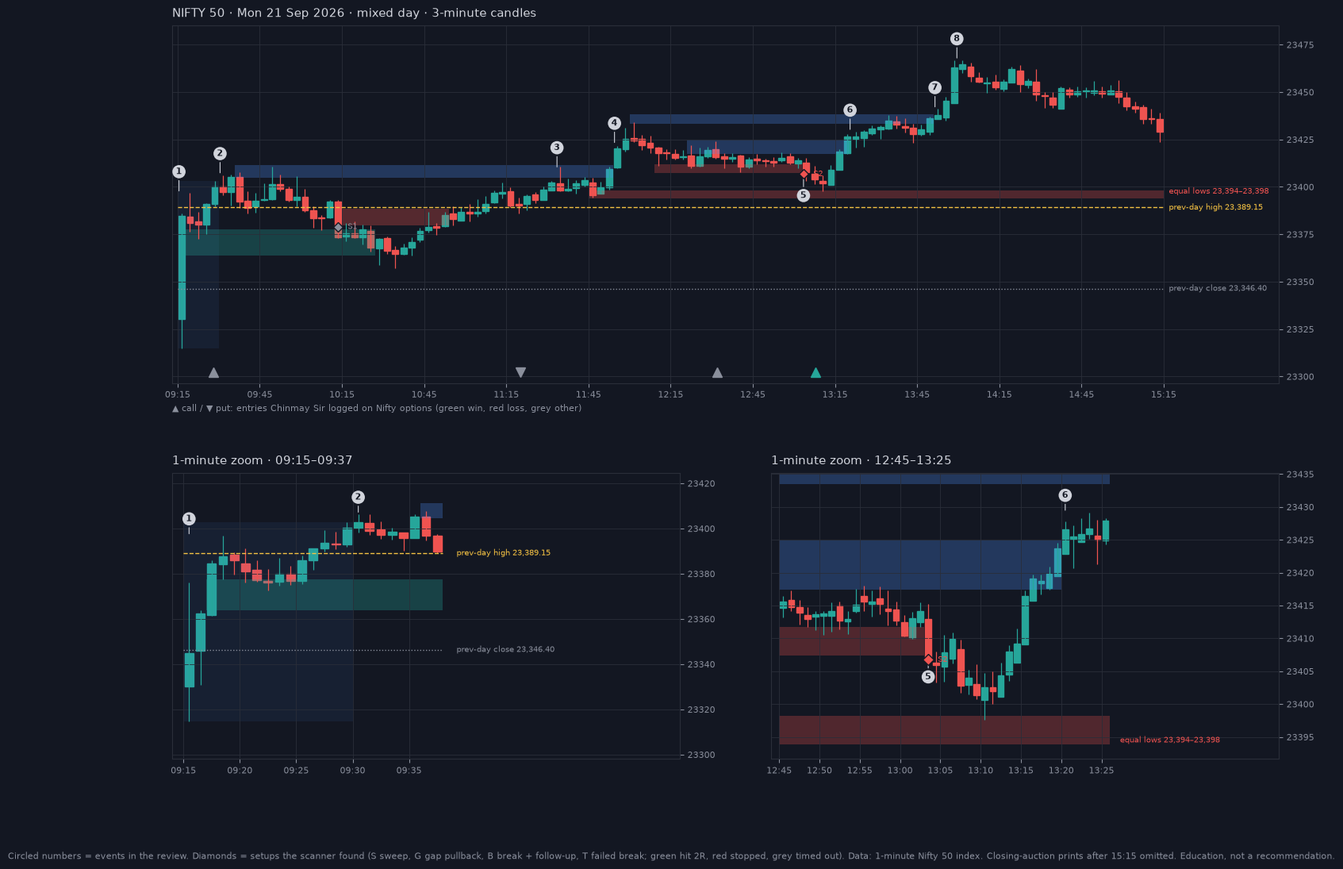
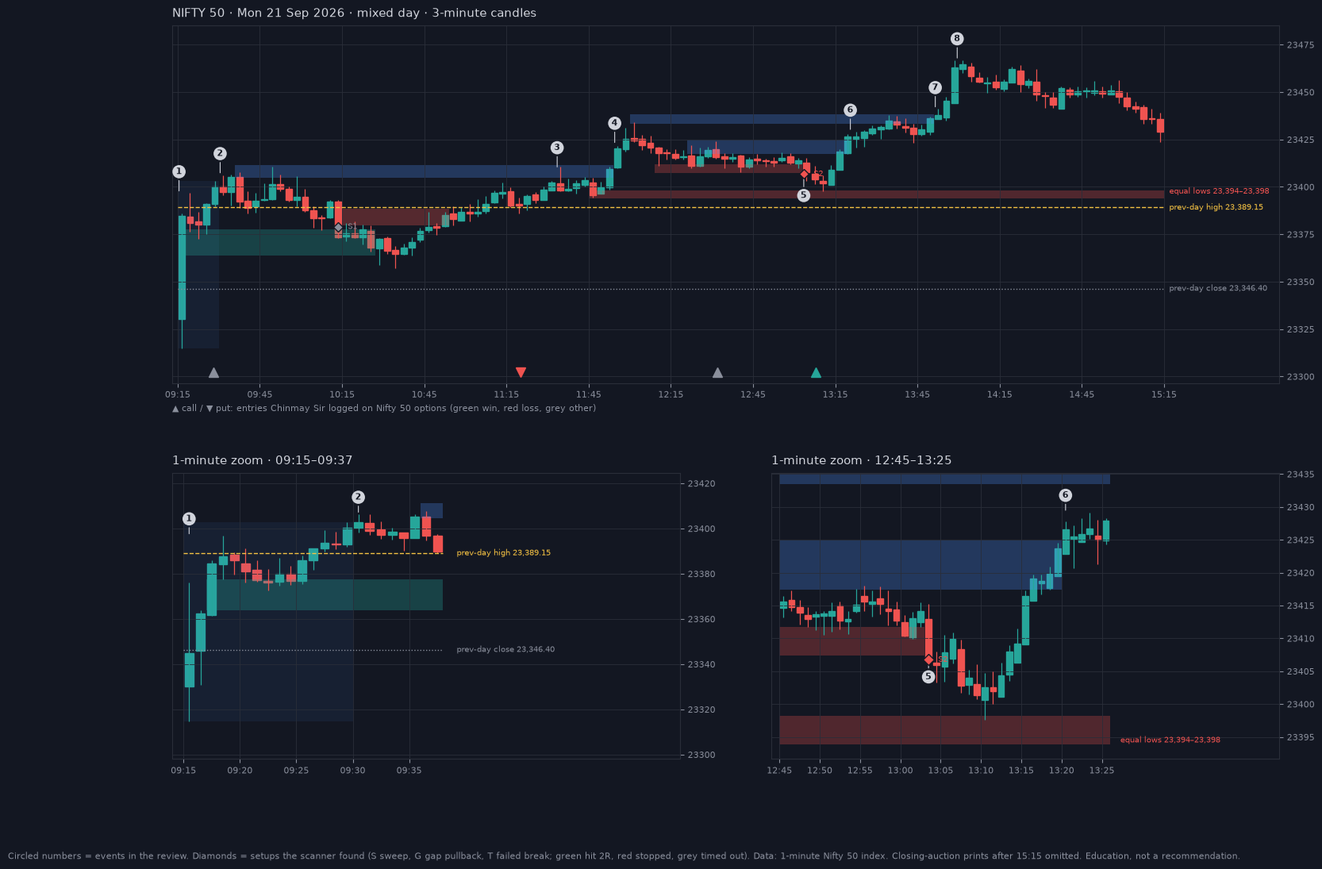
Update Study Desk (2026-09-21)

diff --git a/knowledge/streams/2026-09-21.md b/knowledge/streams/2026-09-21.md
@@ -3,7 +3,7 @@
 Stream: [DrmIRaTPU-A](https://www.youtube.com/watch?v=DrmIRaTPU-A) (09:03–15:12 IST, host: Chinmay Sir / Trading Cafe India)
 Instruments: NIFTY 23250 CE and 23500 PE through the morning (PE rolled to 23600 PE mid-afternoon), plus a BANKNIFTY 56500 CE from late morning. No Sensex trade taken today.
 
-> **Frame grab failed for this entire session.** `python3 tckb.py frames` repeatedly errored (ffmpeg couldn't seek the googlevideo URL — it still carried `source=yt_live_broadcast&live=1&noclen=1`, i.e. YouTube had not yet finished turning this same-day, 6h09m stream into a seekable on-demand file at the time this was processed). Every trade below rests on the transcript alone (`verified=said`); none is frame-verified. Re-run frames later and re-check before treating any number here as final — see ISSUES.
+> **Frames:** the first pass (19:00) had none because YouTube had not finished converting the 6h09m stream into a seekable VOD. They were grabbed at ~21:10 and trades 1–3 are now `verified=frame`; trade 4's 531 touch remains `said`. See each trade's frame check and ISSUES.
 
 ## Pre-market (09:05–09:15)
 - **Crude cooled off** (~2.5% pullback overnight) after Iran signalled willingness to end hostilities on its own terms — read as mildly positive for India, since crude is "the biggest single impact" on the market right now. [▶ 09:09](https://www.youtube.com/watch?v=DrmIRaTPU-A&t=360s)
@@ -16,7 +16,7 @@ Instruments: NIFTY 23250 CE and 23500 PE through the morning (PE rolled to 23600
 | # | IST | Instrument | Setup | Entry → SL → Target | Result |
 |---|-----|-----------|-------|---------------------|--------|
 | 1 | 09:28 | NIFTY 23250 CE | Follow-up-candle breakout above 173 | 173 → 167 → 183 / 202 | ➖ scratch, told to exit breakeven at 09:52 |
-| 2 | 11:20 | NIFTY 23500 PE | Liquidity-sweep reversal below day low 129 | ~136 → ~130 → 158 / 174 | ⚠ no exit ever stated — the "17–18 points" at 11:36 belongs to the 23250 **CE** Telegram call (158→175), not this put. Nifty *rose* 23,390→23,430 between 11:20 and 12:00, so the put was going against him. No points logged |
+| 2 | 11:20 | NIFTY 23500 PE | Liquidity-sweep reversal below day low 129 | ~136 → ~130 → 158 / 174 | ❌ **loss ~−6 (frame)** — no exit stated, but the 11:33 frame shows the PE at 127.4, through the 130.4 stop line, while Nifty rose 23,391→23,405. The "17–18 points" at 11:36 belongs to the 23250 **CE** Telegram call, not this put |
 | 3 | 13:08 | NIFTY 23250 CE | Fresh pullback box, same strike | ~171 → 165 → 183 / 202 | ✅ highest **confirmed** target 212 at 14:02 (+41 pts) |
 | 4 | 13:18 | BANKNIFTY 56500 CE | Hard-trigger breakout (named 11:29, confirmed above 470) | 470 → 438→446 → 531 / 589 | ✅ 531 confirmed touched 13:59, trailed further |
 
@@ -27,22 +27,25 @@ Instruments: NIFTY 23250 CE and 23500 PE through the morning (PE rolled to 23600
 2. He explicitly refused the first breakout candle — "ब्रेकआउट अक्सर फंसा देते हैं" — and waited for the follow-up candle's high (173) to break before entering. [▶ 09:23–09:28](https://www.youtube.com/watch?v=DrmIRaTPU-A&t=1200s) · entry quote: "तो 173 के ऊपर हम एंट्री करेंगे" [▶ 09:28](https://www.youtube.com/watch?v=DrmIRaTPU-A&t=1500s)
 3. Separately, the earlier ~150–157 pullback cohort (who got in before the breakout leg) had already banked roughly 14–15 points by 09:49 — a smaller, distinct win not logged as its own row since no clean entry/exit pair was stated for it. [▶ 09:49](https://www.youtube.com/watch?v=DrmIRaTPU-A&t=2760s)
 4. The breakout leg (this row) never got continuation. Stop was tightened 167→160→148 over the next twenty minutes, and by 09:52 he told anyone without conviction to flatten at breakeven rather than keep waiting: "ब्रेक इवन पे निकल जाओ भाई। कन्विक्शन नहीं आ रहा है ... ब्रेकआउट के आगे कंटीन्यूएशन नहीं आ रहा है ... 184 के ऊपर देख लेना तब आपको मिल जाएगा।" [▶ 09:52](https://www.youtube.com/watch?v=DrmIRaTPU-A&t=2940s)
+5. **Frame check:** at 09:28 the CE printed 172.50 against the 172.72 entry line `data/frames/DrmIRaTPU-A/002500.jpg`; at 09:53 it was 171.90 with the box SL trailed to 161.16 `data/frames/DrmIRaTPU-A/005000.jpg` — flat, so scratch stands.
 
-### Trade 2 — NIFTY 23500 PE, liquidity-sweep reversal, ~+18 confirmed (11:20)
+### Trade 2 — NIFTY 23500 PE, liquidity-sweep reversal, loss ~−6 (11:20)
 1. He spent from 10:03 marking a base and an imbalance/FVG zone under the PE, deliberately not entering — "एक अच्छी ग्रीन कैंडल इस ज़ोन में बनने दो, उसके बाद आप काम कर लेना." [▶ 10:03](https://www.youtube.com/watch?v=DrmIRaTPU-A&t=3600s) · [▶ 10:47 FVG explained](https://www.youtube.com/watch?v=DrmIRaTPU-A&t=6420s)
 2. From 11:13 he explicitly wanted the day low (129) swept first — "129 के नीचे जाए, एक डिप दे दे और अपने लिए एक प्यारा मॉर्निंग स्टार कैंडल बना दे" — before treating any bounce as tradeable. [▶ 11:13–11:14](https://www.youtube.com/watch?v=DrmIRaTPU-A&t=7800s) · [▶ 11:32 "let it sweep first"](https://www.youtube.com/watch?v=DrmIRaTPU-A&t=8940s)
 3. Pullback entry confirmed at ~136 with a 6–7 point risk. [▶ 11:20](https://www.youtube.com/watch?v=DrmIRaTPU-A&t=8220s)
 4. By 11:35 he said the sweep-then-reverse read was working ("एक्सक्टली क्योंकि इसने लिक्विडिटी ले ली तो फिर यह घूमना स्टार्ट कर देगा"). **The ~17–18 points he quotes at 11:36 are the 23250 CE Telegram call moving 158→175/176, not this put** — he never stated an exit for the put, and Nifty rallied after 11:20, so it was going the wrong way. [▶ 11:35](https://www.youtube.com/watch?v=DrmIRaTPU-A&t=9120s) · [▶ 11:37](https://www.youtube.com/watch?v=DrmIRaTPU-A&t=9240s)
-5. No further exit was stated on stream — by 11:41 he said he'd tried the PE with small stops but wasn't going to keep re-entering, and attention shifted to BankNifty. Logged conservatively at the confirmed +17–18 pt mark rather than the untouched 174 distribution zone. [▶ 11:41](https://www.youtube.com/watch?v=DrmIRaTPU-A&t=9480s)
+5. No exit was stated on stream — by 11:41 he said he'd tried the PE with small stops but wasn't going to keep re-entering, and attention shifted to BankNifty. **Frame check (evening, once the VOD was seekable):** the 11:20 frame shows the position box (SL line 130.4, target 158–159, PE ~139.5) `data/frames/DrmIRaTPU-A/021700.jpg`, and by 11:33 the PE traded at 127.4, well through the stop `data/frames/DrmIRaTPU-A/023000.jpg`. Logged as a loss at the box's 130 stop (~−6 from ~136), the size of the stop rather than a fill he announced. [▶ 11:41](https://www.youtube.com/watch?v=DrmIRaTPU-A&t=9480s)
 
-### Trade 3 — NIFTY 23250 CE, fresh pullback box, +57 confirmed (13:08)
+### Trade 3 — NIFTY 23250 CE, fresh pullback box, +41 confirmed (13:08)
 1. A new position box (not the same one as trade 1) touched and printed a pin bar at 13:05: "अपना जो बॉक्स है इसने टच कर लिया। पिन बार बना दिया है।" [▶ 13:05](https://www.youtube.com/watch?v=DrmIRaTPU-A&t=14520s)
 2. At 13:08 he named the exact numbers: SL 165, entry 171–172, "छ से सात पॉइंट की रिस्क है यहां पे" — 6–7 point risk. [▶ 13:08](https://www.youtube.com/watch?v=DrmIRaTPU-A&t=14700s)
-3. He was explicit this was a **pullback**, not a reversal: "यह रिवर्सल नहीं था जो एक सिंगल कैंडल पे पकड़ा। इसको पुलबैक बोलते हैं ... रिवर्सल एक सिंगल कैंडल पे पकड़ने मत जाना।" — the justification for logging it as `pullback-first-green-candle` rather than a base reversal. [▶ 13:26](https://www.youtube.com/watch?v=DrmIRaTPU-A&t=15180s)
+3. He was explicit this was a **pullback**, not a reversal: "यह रिवर्सल नहीं था जो एक सिंगल कैंडल पे पकड़ा। इसको पुलबैक बोलते हैं ... रिवर्सल एक सिंगल कैंडल पे पकड़ने मत जाना।" — the justification for logging it as `pullback-first-green-candle` rather than a base reversal. [▶ 13:26](https://www.youtube.com/watch?v=DrmIRaTPU-A&t=15780s)
 4. Targets were taken in sequence: 182/183 first, then the prior rejection zone 187–189, then a confirmed "डॉट टारगेट ले लिया 202 का" at 13:56, and a 228 zone was named next but never confirmed taken. [▶ 13:56](https://www.youtube.com/watch?v=DrmIRaTPU-A&t=17580s) · [▶ 13:57](https://www.youtube.com/watch?v=DrmIRaTPU-A&t=17640s)
 5. By 14:02 he said "इसने सब ले लिया भाई। इतने सारे टारगेट ले लिए। **212 का ले लिया**" — 212 is the highest number he actually names as taken, so the trade is logged there (+41 pts). The "158 to 230" in his 15:06 recap belongs to the **Telegram** call on the same strike, which is self-reported and earns no points. [▶ 14:02](https://www.youtube.com/watch?v=DrmIRaTPU-A&t=17940s) · [▶ 13:58 "trade of the week"](https://www.youtube.com/watch?v=DrmIRaTPU-A&t=17880s)
+6. **Frame check:** the 13:18 frame shows the box — entry 172.27–172.72, SL 165.40, reward:risk 4.33, target 202 `data/frames/DrmIRaTPU-A/041500.jpg`; at 13:59 the CE traded 218.3 with the box top extended to 228.6 `data/frames/DrmIRaTPU-A/045600.jpg`, and at 14:03 it printed 223.7 with a ~230 wick `data/frames/DrmIRaTPU-A/050000.jpg`. The 212 target was passed comfortably; the row stays at the conservative 212 because no exit fill is shown.
 
-### Trade 4 — BANKNIFTY 56500 CE, hard-trigger breakout, +61 confirmed (13:18)
+### Trade 4 — BANKNIFTY 56500 CE, hard-trigger breakout, +61 confirmed (entry ~12:46–13:18)
+- **Frame check on timing:** the 12:46 frame of the BANKNIFTY 29 SEP 56500 CALL 5-min chart already carries the long box (price 469.5, SL line 438.8, target 531.3) `data/frames/DrmIRaTPU-A/034330.jpg`, so the 470 trigger was live from about 12:46; 13:18 is when he asked viewers who had been filled. The 531 touch itself rests on his 13:59 words ("देखो टच हो गया"), not a frame.
 1. First flagged well in advance: "बैंक निफ्टी में आपको मोमेंटम दिख रहा है ... 56500 के ऊपर ही देखना, उससे पहले मत देखना." [▶ 11:29](https://www.youtube.com/watch?v=DrmIRaTPU-A&t=8760s)
 2. Formalised at 11:59 with numbers: SL 438, primary target 531, waiting for a confirmed 5-min close above 470 rather than the raw poke. [▶ 11:59](https://www.youtube.com/watch?v=DrmIRaTPU-A&t=10560s)
 3. Confirmed live at 13:18: "बैंक निफ्टी यस भाई बैंक निफ्टी बैंग ऑन है ... स्टॉप लॉस 446 का रखो ... 470 के ऊपर करो, 531 को एम करके चलो." [▶ 13:18](https://www.youtube.com/watch?v=DrmIRaTPU-A&t=15300s)
@@ -82,8 +85,8 @@ By this window he had turned decisively one-sided: bullish on the CE ("अभी
 - Commercial: Lemonn demat referral + free VIP Telegram, free "Option Scalping Pro" course, CoinSwitch for gold/crypto/BTC/ETH (a separate crypto stream was teased for "day after tomorrow"). His P&L claims (verified PnL screenshot mentioned, not shown on this stream) are self-reported.
 
 ## ISSUES (carried up from this stream's processing)
-- **No frames could be grabbed** for this entire session — `tckb.py frames` failed on every offset tried (ffmpeg error 234/"noclen=1", `source=yt_live_broadcast&live=1` still in the URL), most likely because YouTube had not finished converting this same-day 6h09m stream into a seekable on-demand file yet. Every row here is `verified=said`, not `verified=frame`. Re-grab frames and re-check trades 1–4 once the VOD is fully processed.
+- **Frames (resolved the same evening):** at 19:00 `tckb.py frames` failed because YouTube had not finished converting the 6h09m stream into a seekable VOD; by 21:10 it worked. Trades 1, 2 and 3 are now `verified=frame` (trade 2 turned from unclear into a ~−6 loss); trade 4's box is on a frame but its 531 touch is still `said`.
 - The "158–162" band referenced repeatedly through the day (Telegram call, reaching "230" by his 15:05 recap) overlaps trades 1 and 3 (same 23250 CE). Whether this is one continuously-held position (trades 1 and 3 being excerpts of it) or a genuinely separate Telegram-only position tracked in parallel could not be resolved from the transcript alone.
-- Trade 2 (PE) has no stated exit at all, and the points once attributed to it belong to the CE Telegram call. Logged as `unclear` with no points until a frame check settles it.
+- Trade 2 (PE) had no stated exit and the points once attributed to it belong to the CE Telegram call; the frame check (see trade 2) settled it as a stop-out.
 - Trade 4 (BankNifty CE)'s final exit was never explicitly booked either; logged at the confirmed 531 touch, not the later-named 589/635 zones or viewers' self-reported 56–100 pt claims (chat, not his own stated numbers).
 - This is also the first stream in the backlog where he ran a full BankNifty scalp setup — flagged in RULES below as a possible contradiction of the existing "avoids BankNifty for scalping" rule (`playbook.md` §3); worth a second data point before revising that rule.

diff --git a/knowledge/daily/2026-09-21-insights.md b/knowledge/daily/2026-09-21-insights.md
@@ -1,36 +1,57 @@
-# 21 Sep 2026 (Mon) — insights
+# 21 Sep 2026 (Mon) — Daily Insights
 
-**The session:** Nifty opened 23,330.20, printed the day's low **in the opening minute** at 23,314.80, swept Friday's high by 09:18, ground sideways through a dull morning, then climbed a staircase of four higher ceilings from 11:54 to a 13:59 high of **23,466.80**. Close 23,414.30, range 152 points. He blamed the thin morning on the NSE IPO's subscription closing that evening — the second day running he has pointed at it.
+## Headline
+A dead morning, then a staircase up. He passed on the thin 09:28 breakout (scratch), lost about 6 points shorting the day-low sweep with a put, then took the one pullback call that agreed with the trend (**+41**, frame-checked) and a BankNifty hard-trigger breakout (**+61**, his word). The lesson: the day's low was in at 09:15 and every counter-trend read lost; the pullback in the direction of the staircase paid.
 
-## What he traded
+## Market context
+- **Host / instruments:** Chinmay Sir, solo. Nifty 23250 CE and 23500 PE (~₹150 each), plus a BankNifty 56500 CE from late morning. No Sensex trade. [▶ 09:14](https://www.youtube.com/watch?v=DrmIRaTPU-A&t=840s)
+- **Global cues:** crude cooled about 2.5% overnight after Iran signalled it would end hostilities on its own terms; he read it as mildly positive for India. [▶ 09:09](https://www.youtube.com/watch?v=DrmIRaTPU-A&t=360s)
+- **Thin volumes, second day running:** he blamed the NSE IPO (subscription closing that evening) for parking cash, said futures volumes were the lowest since 2009 and expected real momentum only after it closed. [▶ 09:33](https://www.youtube.com/watch?v=DrmIRaTPU-A&t=1770s)
+- **Nifty levels (from the data):** open 23,330.20, low **23,314.80 at 09:15**, high **23,466.80 at 13:59**, close 23,414.30, range 152. IV ran 10–12 in the afternoon (his read: sideways market). Friday's zone he marked was 23,380–23,400 resistance, 23,280 support. [▶ 09:07](https://www.youtube.com/watch?v=DrmIRaTPU-A&t=240s)
 
-| Time | Trade | Result |
-|---|---|---|
-| 09:28 | NIFTY 23250 CE, follow-up entry above 173 | Scratch — told holders to leave at breakeven by 09:52 |
-| 11:20 | NIFTY 23500 PE, sweep of the day low 129 | **No exit ever stated**; Nifty rallied against it. No points logged |
-| 13:08 | NIFTY 23250 CE, pullback into a fresh box with a pin bar | **+41 pts** (confirmed target 212 at 14:02) |
-| 13:18 | BANKNIFTY 56500 CE, hard trigger above 470 | **+61 pts** (target 531 confirmed) |
+## Trades
+| Time (IST) | Option | Setup | Entry → SL → Target | Result | Verified? | ▶ |
+|---|---|---|---|---|---|---|
+| 09:28 | NIFTY 23250 CE | Follow-up breakout above 173 | 173 → 167 → 183 / 202 | **Scratch** — told holders to leave at breakeven by 09:52; CE 172.5 at entry, 171.9 at 09:53 | frame | [link](https://www.youtube.com/watch?v=DrmIRaTPU-A&t=1500s) |
+| 11:20 | NIFTY 23500 PE | Sweep of the day low (129), pullback entry | ~136 → ~130 → 158 / 174 | **Loss, ~−6** — no exit stated, but the PE was 127.4 at 11:33, through the 130.4 stop line, while Nifty rose | frame | [link](https://www.youtube.com/watch?v=DrmIRaTPU-A&t=8220s) |
+| 13:08 | NIFTY 23250 CE | Pullback into a fresh box, pin bar | ~171 → 165 → 183 / 202 | **Win, +41** — 212 taken per him (14:02); frames show the CE at 218–223 by 14:03. Kept at 212 | frame | [link](https://www.youtube.com/watch?v=DrmIRaTPU-A&t=14700s) |
+| live by 13:18 (box on screen 12:46) | BANKNIFTY 56500 CE | Hard trigger above 470, close-confirmed | 470 → 446 → 531 / 589 | **Win, +61** — "देखो टच हो गया" at 13:59; 589 and 635 named, never confirmed | said | [link](https://www.youtube.com/watch?v=DrmIRaTPU-A&t=15300s) |
+| 12:32 (running since morning) | NIFTY 23250 CE | Telegram-only long from 158 | 158 → ? | **Unclear** — self-reported (his 15:06 recap says "158 to 230"); no points per the Telegram rule | unverified | [link](https://www.youtube.com/watch?v=DrmIRaTPU-A&t=12540s) |
 
-Plus a Telegram-only long from 158 on the 23250 CE, running all day and self-reported — no points, per the standing rule.
+**Verification notes.** The stream wasn't seekable at 19:00, so the first pass was `said` only. By 21:10 frames worked and changed two rows: the **put** went from "unclear" to a stop-out (~−6), and the **09:28 scratch** and **13:08 win** became `frame`. The BankNifty box is on a frame at 12:46 (so the trigger was live well before 13:18, which is only when he asked who got filled), but its 531 touch rests on his words. His "158 to 230" recap belongs to the Telegram call, not the charted entry.
 
-## Three things worth keeping
+## Best moment to watch
+**13:05–13:26 — the pullback trade, and why he calls it a pullback, not a reversal.** [▶ 13:05](https://www.youtube.com/watch?v=DrmIRaTPU-A&t=14520s) → [▶ 13:26](https://www.youtube.com/watch?v=DrmIRaTPU-A&t=15780s). The box is drawn in advance, price taps it with a pin bar, he states entry 171–172, SL 165 and a 6–7 point risk out loud, then spends twenty minutes explaining why you don't catch a reversal on a single candle ("इसको पुलबैक बोलते हैं"). It is also the cleanest small-stop-versus-big-reward example of the month: reward:risk on the frame is 4.33.
 
-**1. The "avoids Bank Nifty" rule broke, and for a good reason.** The playbook has recorded since 6-Aug that he stays off BankNifty intraday because monthly-only expiry makes liquidity thin. Today he ran a full hard-trigger breakout on it — trigger named hours in advance, entry above 470, SL 446, target 531 — and it was the cleanest trade of the day. The honest revision is "not usually", not "never": on a dull Nifty day he went where the movement was.
+## What changed in the playbook
+- **Pullback (B) now 15W / 0L** (+41 today).
+- **Sweep reversal (C) gets its second loss.** He was right about the sweep of the low but the put fought the trend; stopped in about 13 minutes. New note in C.
+- **Reinforced:** wait for the stops to be actually *taken*, not just a fresh low (he sat out the put for 19 minutes at 11:13 for that).
+- **Contradicted:** "he avoids BankNifty scalps" — today he ran a full hard-trigger breakout on it and it was the cleanest trade. Rule reworded to "not usually, not never".
+- **Confirmed:** "no trade is also a trade" when conviction is missing (10:33); a recap is not evidence.
 
-**2. He waits for the stops to be *taken*, not just for a fresh low.** At 11:13 he refused to treat any bounce as tradeable until the day's low at 129 was actually swept. That's the sweep rule stated more strictly than the playbook had it — a new low is not a sweep; liquidity being taken *and rejected* is.
+## Scorecard snapshot (Chinmay's core setups)
+| Setup | Trades | W / L / other | Net pts | Change today |
+|---|---|---|---|---|
+| Follow-up breakout (A) | 31 | 21 / 6 / 4 | Nifty +330 · BankNifty +61 · Sensex +482 | +1 win (+61 BankNifty), +1 scratch |
+| Pullback, first green candle (B) | 18 | 15 / 0 / 3 | Nifty +180 · Sensex +462 | +1 win (+41) |
+| Sweep reversal (C) | 9 | 3 / 2 / 4 | Nifty +26 · Sensex +42 | +1 loss (−6) |
+| Telegram calls | 12 | 1 / 0 / 11 | Nifty +18 | +1 unclear |
+| **All his trades** | **163** | **92 / 35 / 36** | Nifty +1,121 · Sensex +2,198 · BankNifty +61 | +5 rows: 2W, 1L, 2 unclear |
 
-**3. A recap is not evidence.** His 15:06 end-of-day summary described "one trade, 158 to 230". That range belongs to the Telegram call, not the charted 13:08 entry, whose highest confirmed target was **212**. The two ran in parallel on the same strike all day. Where a recap and the chart disagree, the chart wins.
+Points are option premium per lot, before costs; Nifty, BankNifty and Sensex points aren't comparable.
 
-## What the rules saw
+## Practice question
+Look at `data/frames/DrmIRaTPU-A/040300.jpg` (13:06, two minutes before the entry). The left panel is Nifty, the middle is the 23250 CE, the right is the 23500 PE. The CE has just dropped into a purple box and printed a small candle at its top edge.
 
-Three scanner signals, net **+0.61R** — one 2R winner (the 10:17 gap pullback), one stop, one time exit.
+**What is the setup, where are the entry, SL and target, and why is this not a "reversal"?**
 
-The stopped signal is the instructive one. At **13:03** it called a sweep reversal short at 23,406.75 and was stopped 13 minutes later, after which price rallied 60 points to the day high. The level it shorted had been broken at 11:54 and **held for over an hour** — price was accepted above it, so it had flipped from resistance to support. A sweep rejects within a candle or two; half an hour of acceptance is the opposite.
+<details>
+<summary>Answer</summary>
 
-Chinmay was on the other side of that exact moment: at 13:12 he said puts were only interesting *below* 23,400, and his 13:08 call entry was the trade of the day.
+**Setup:** a pullback into a pre-drawn zone (`pullback-first-green-candle`) not a reversal. Nifty had been making higher highs since 11:54, the CE had faded about 20 points into the box (from a ~192 high around 12:05 to ~172), the box was marked before price arrived, and the pin bar at 13:05 was the first sign it held.
 
-**Rule change this suggests:** once price closes beyond a level and holds for 20+ minutes, retire that level as a pool. The pullback into it is a continuation entry, not a reversal.
+**Entry** ~171–172 (he said it at 13:08). **SL 165**, just under the box (frame: 165.40), so the risk is 6–7 points. **Target:** first 183, then 187–189, then 202 (the box's own target, R:R 4.33); he confirmed 212 by 14:02.
 
-## Caveat on today's numbers
-
-**No frames could be verified.** YouTube had not finished converting the 6-hour stream into a seekable VOD, so every number above rests on his spoken words (`verified=said`), not on a chart. Two of the sub-agent's original figures were corrected against the transcript before merging — a claimed +18-point put win that was actually the call's move, and a 228 exit that was never confirmed above 212. **This day should be re-checked against frames once the VOD is seekable.**
+**Why not a reversal:** the trend was up and the stop was tiny, so he was joining the existing move at a discount rather than betting against it. On the day the PE, the counter-trend side, fell from ~125 at 13:06 to ~91 by 14:00 while the CE ran from 172 to 223, and the earlier put he took at 11:20 stopped out. Look at `data/frames/DrmIRaTPU-A/050000.jpg` (14:03) for the result.
+</details>

diff --git a/knowledge/playbook.md b/knowledge/playbook.md
@@ -6,7 +6,7 @@ Update this file as each stream is processed: add evidence, refine rules, and re
 
 **Hosts.** The main host is **Chinmay Sir**. He buys Nifty options, and Sensex options on Sensex expiry days, with levels drawn on the *option* chart. When he's unwell, **Trade Circuit** (his student, a separate channel) hosts, using a different method (§6). Their results are never mixed.
 
-Processed so far: 15, 16, 17, 20, 21, 22, 23, 24, 27, 28, 29, 30 Jul · 3, 4, 5, 6, 7, 18, 20, 21, 25 Aug · 3, 4, 7, 8, 10, 11, 15, 16, 17, 18 Sep 2026 (31 days, 172 trades).
+Processed so far: 15, 16, 17, 20, 21, 22, 23, 24, 27, 28, 29, 30 Jul · 3, 4, 5, 6, 7, 18, 20, 21, 25 Aug · 3, 4, 7, 8, 10, 11, 15, 16, 17, 18, 21 Sep 2026 (32 days, 177 trades).
 
 ---
 
@@ -51,12 +51,13 @@ Entering as soon as price pokes through the range, without a follow-up candle. *
 - **18-Sep 23400 PE (+~12.5):** planned before it happened ("a pullback candle we planned; the pullback candle came"): after a ~30-pt run he refused to buy at 150 (reward:risk not favourable) and waited for the dip to ~145, entered on the first green candle with a ~4–5 pt risk, was +15 within three minutes and trailed 154 → 159. The 169 target never printed (high ~167.6), so the 157–159 trail exited it for a small win: the setup's risk was tiny but the reward was capped by a momentum-less day. [▶ 18-Sep](https://www.youtube.com/watch?v=EPh5qxWEUhU&t=1080s) · frames `data/frames/EPh5qxWEUhU/002130.jpg`, `003100.jpg`
 - **Nuance:** he says he *used to* buy the first green candle after every pullback, but once a range has broken and shows continuation he prefers waiting for the deeper pullback zone. [▶ 8-Sep](https://www.youtube.com/watch?v=s3r5EJy4cw8&t=3780s)
 
-### C. Liquidity-sweep reversal ("bottom buying"): 3W / 1L / 4 unclear, Nifty +32 · Sensex +42
+### C. Liquidity-sweep reversal ("bottom buying"): 3W / 2L / 4 unclear, Nifty +26 · Sensex +42
 After price takes out the prior zone's low and a strong bullish close appears, enter on the first reversal sign with the SL at the day low. The same stop-hunt can happen **on the option premium itself** (a "shakeout" dip); wait it out before entering.
 **When it fails:** if the "sweep" is really price continuing into a news event, it goes straight through the stop. That's how the one loss happened, on SBI results (7-Aug, −6) [▶](https://www.youtube.com/watch?v=ayYEP_dKaLY&t=17700s). A sweep needs stops to be taken and then *rejected*, not a fresh reason to keep falling.
 **18-Sep (unclear):** after the 23250 CE swept the day low he framed a bottom buy only because the risk (~6 pts) against the ~14-pt reward was about 1:2, and said he personally "didn't feel like" taking it; the CE ran to ~156 but it was offered to viewers with no fill, box or exit, so no points are logged [▶ 18-Sep](https://www.youtube.com/watch?v=EPh5qxWEUhU&t=7260s). His filter for bottom buys is reward:risk, not just "liquidity was taken".
 **Liquidity ≠ resistance:** he draws a line between a zone that merely holds and a zone where stop losses actually sit. Only the second is a sweep. [▶ 25-Aug](https://www.youtube.com/watch?v=hkQBf4EvCuo&t=12540s) [▶ 11-Sep](https://www.youtube.com/watch?v=qTDwaNEZ2RY&t=6240s) · [▶ 4-Sep win ~117→139](https://www.youtube.com/watch?v=YtqPA0aKkzE&t=8940s) · [▶ 4-Sep shakeout](https://www.youtube.com/watch?v=YtqPA0aKkzE&t=5220s)
 
+- **21-Sep put (loss, ~−6, frame):** he waited for the day-low sweep and then took the 23500 PE from ~136 with the SL under 130; by 11:33 the PE was 127.4 and the stop level was gone, because Nifty was rising in a staircase that had begun off the 09:15 low. The sweep read was right about the *low* but the put was on the wrong side of the day's trend. [▶ 11:20](https://www.youtube.com/watch?v=DrmIRaTPU-A&t=8220s)
 - **Wait for the stops to actually be taken, not just for a fresh low** (reinforced 21-Sep). He refused to treat any bounce as tradeable until the day's low at 129 was swept, and only then looked for the reversal candle. [▶ 11:13](https://www.youtube.com/watch?v=DrmIRaTPU-A&t=7800s)
 
 ### D. Reversal at base, aggressive vs confirmation: 20W / 5L / 2 unclear, Nifty +282 · Sensex +899, 23/27 verified
@@ -119,25 +120,25 @@ On 27-Jul the option coiled in a tight range for hours and he took three small s
 ## 5. Scorecard (`python3 tckb.py scorecard`)
 | Host | Setup | Trades | Win | Loss | Scratch/unclear | Net pts by underlying | Verified |
 |------|-------|--------|-----|------|-----------------|-----------------------|----------|
-| chinmay | consolidation-breakout-followup | 29 | 20 | 6 | 3 | NIFTY +330 · SENSEX +482 | 28/29 |
+| chinmay | consolidation-breakout-followup | 31 | 21 | 6 | 4 | BANKNIFTY +61 · NIFTY +330 · SENSEX +482 | 30/31 |
 | chinmay | base-reversal-aggressive-or-confirm | 27 | 20 | 5 | 2 | NIFTY +282 · SENSEX +899 | 23/27 |
+| chinmay | pullback-first-green-candle | 18 | 15 | 0 | 3 | NIFTY +180 · SENSEX +462 | 15/18 |
 | chinmay | breakout-close-confirm | 18 | 10 | 4 | 4 | NIFTY +111 · SENSEX +42 | 17/18 |
 | chinmay | trend-re-entry | 18 | 12 | 1 | 5 | NIFTY +99 · SENSEX +284 | 16/18 |
-| chinmay | pullback-first-green-candle | 17 | 14 | 0 | 3 | NIFTY +139 · SENSEX +462 | 14/17 |
 | chinmay | jodi-long-straddle | 13 | 8 | 2 | 3 | NIFTY +84 · SENSEX +192 | 10/13 |
+| chinmay | telegram-vip-call | 12 | 1 | 0 | 11 | NIFTY +18 · SENSEX +0 | 1/12 |
 | chinmay | range-breakout-direct | 11 | 0 | 11 | 0 | NIFTY -34 · SENSEX -147 | 11/11 |
-| chinmay | telegram-vip-call | 11 | 1 | 0 | 10 | NIFTY +18 · SENSEX +0 | 1/11 |
-| chinmay | liquidity-sweep-reversal | 8 | 3 | 1 | 4 | NIFTY +32 · SENSEX +42 | 6/8 |
+| chinmay | liquidity-sweep-reversal | 9 | 3 | 2 | 4 | NIFTY +26 · SENSEX +42 | 7/9 |
 | chinmay | range-chop-scalps | 3 | 0 | 3 | 0 | NIFTY -18 · SENSEX -58 | 2/3 |
 | chinmay | aggressive-continuation-entry | 2 | 2 | 0 | 0 | NIFTY +46 | 2/2 |
 | chinmay | late-re-entry-fade | 1 | 0 | 1 | 0 | NIFTY -3 | 0/1 |
-| chinmay | **all** | 158 | 90 | 34 | 34 | NIFTY +1086 · SENSEX +2198 | 130/158 |
+| chinmay | **all** | 163 | 92 | 35 | 36 | BANKNIFTY +61 · NIFTY +1121 · SENSEX +2198 | 134/163 |
 | trade-circuit | close-above-level-entry | 11 | 6 | 4 | 1 | NIFTY +65 · SENSEX +147 | 11/11 |
 | trade-circuit | pullback-to-marked-zone | 2 | 1 | 1 | 0 | SENSEX -1 | 2/2 |
 | trade-circuit | jodi-long-straddle | 1 | 0 | 0 | 1 | SENSEX +0 | 0/1 |
 | trade-circuit | **all** | 14 | 7 | 5 | 2 | NIFTY +65 · SENSEX +146 | 13/14 |
 
-**What the data says (31 days, 172 trades, the full backlog):** the follow-up candle is still the edge. Setup A is **20W / 6L** (18-Sep added its first hard-trigger loss, in a 30–40-pt opening-range chop); the same breakout entered one candle early (A−) is **0W / 11L**; entering on a candle close without waiting (H) is 10W / 4L. Pullbacks (B) are 14W / 0L. Reversals at a base (D) are 20W / 5L and pay best when he waits for the pin bar or a strong candle to close. The jodi is 8W / 2L. The losing pattern is consistent: chop scalps and quick re-entries (J) and raw breakouts (A−) — 16-Sep added another clean A− loss (−30) within minutes of the poke. Points are option premium per lot, before costs, and **Nifty and Sensex points aren't comparable** (Sensex premiums are ~3× larger). Unstated exits use the confirmed target, the named trailing stop, or an open mark on a frame, never a peak, a drawn target, a cursor label or a viewer's booking read from chat. Telegram calls carry points only with an outcome frame. **130 of 158** of his trades are verified by a frame, his own words, or his TRADE RECORDS journal. Trade Circuit's own guest-side tally (13/14 verified) now includes a 16-Sep discovery that he trades a personal book in parallel to Chinmay's on-air session — see §6.
+**What the data says (32 days, 177 trades, the full backlog):** the follow-up candle is still the edge. Setup A is **21W / 6L** (18-Sep added its first hard-trigger loss, in a 30–40-pt opening-range chop; 21-Sep added a BankNifty hard-trigger win of +61 and a Nifty scratch); the same breakout entered one candle early (A−) is **0W / 11L**; entering on a candle close without waiting (H) is 10W / 4L. Pullbacks (B) are 15W / 0L (21-Sep: +41, frame-verified). Reversals at a base (D) are 20W / 5L and pay best when he waits for the pin bar or a strong candle to close. The jodi is 8W / 2L. The losing pattern is consistent: chop scalps and quick re-entries (J) and raw breakouts (A−) — 16-Sep added another clean A− loss (−30) within minutes of the poke. Points are option premium per lot, before costs, and **Nifty and Sensex points aren't comparable** (Sensex premiums are ~3× larger). Unstated exits use the confirmed target, the named trailing stop, or an open mark on a frame, never a peak, a drawn target, a cursor label or a viewer's booking read from chat. Telegram calls carry points only with an outcome frame. **134 of 163** of his trades are verified by a frame, his own words, or his TRADE RECORDS journal. Trade Circuit's own guest-side tally (13/14 verified) now includes a 16-Sep discovery that he trades a personal book in parallel to Chinmay's on-air session — see §6.
 
 ## 6. Guest method: Trade Circuit (Sensex), kept separate
 - Pure price action with no indicators. He marks structural lines on the **spot** chart and enters only on a full spot **candle close** beyond the line, never on a wick. [▶ 10-Sep](https://www.youtube.com/watch?v=_v3ieKuYGRc&t=780s)

diff --git a/knowledge/reviews/2026-09-21.md b/knowledge/reviews/2026-09-21.md
@@ -12,16 +12,14 @@
 - The untaken equal lows at 23,287–290 from Friday sat 28 points under the open. They were never reached: today's low stopped at 23,314.80.
 
 ## What happened (numbers match the chart)
-1. **09:15** — the opening candle printed the day's low at **23,314.80** and broke straight back through Friday's close. The low was in before most people had a chart open.
-2. **09:18** — **sweep of Friday's high** at 23,389.15. Price poked above and came back: the first trap of the day.
-3. **09:30** — sweep of the opening-range high at 23,402.95, same pattern.
-4. **10:13** — a 12.1-point impulse candle *down* (2.1× normal), leaving a bear gap at **23,379.9–23,388.7**.
-5. **10:55, 12:22** — two more down impulses. Through midday the tape still looked heavy.
-6. **11:33** — a 10.2-point impulse **up**; the first sign the sellers were done.
-7. **11:54** — **break of the equal highs 23,405.2–23,410.8**, the first of four ceilings to go.
-8. **13:03** — price came back through those equal highs with an 8.8-point down candle. On the rules this registered as a failed break. It wasn't — see below.
-9. **13:20 → 13:51** — equal highs at **23,418.0–23,424.2**, then **23,434.0–23,437.7**, broken in turn.
-10. **13:59** — day high **23,466.80**. The close at 23,414.30 gave back 52 points of it.
+1. **09:15** — the opening candle printed the day's low at **23,314.80** and broke straight back through Friday's close (23,346.40). The low was in before most people had a chart open. Friday's high (23,389.15) was swept at 09:18, by 7.5 points, and rejected.
+2. **09:30** — **sweep of the opening-range high** at 23,402.95, by 3.3 points, the same poke-and-return shape twelve minutes later.
+3. **11:33** — a 10.2-point impulse candle **up** (2.2× normal), the first sign the sellers were done. Earlier the tape had printed down impulses at 10:13 (12.1 pts) and 10:55 (10.4 pts).
+4. **11:54** — **break of the equal highs 23,405.2–23,410.8**, the first of four ceilings to go.
+5. **13:03** — price dipped back through those equal highs with an 8.8-point down candle (2.3× normal). The rules read a failed break and shorted it. It wasn't one — see below.
+6. **13:20** — break of the equal highs **23,418.0–23,424.2**.
+7. **13:51** — break of the equal highs **23,434.0–23,437.7**.
+8. **13:59** — day high **23,466.80**. The close at 23,414.30 gave back 52 points of it; the last impulse of the day was a 12.7-point drop at 14:28 (2.5× normal).
 
 ## Liquidity sweeps and pools
 - **Friday's high, 09:18** — a textbook sweep: poked, rejected, no acceptance above. It set up the whole morning's downside.
@@ -62,6 +60,18 @@ Two things the rule failed to account for:
 2. **It was counter-trend.** By 13:03 Nifty had put in a higher low at 23,397 and was making higher highs off the 09:15 low. The 13:03 dip was a retest of the flip, and it held.
 
 The lesson generalises: **once price closes beyond a level and holds it for 20+ minutes, retire that level as a pool.** The pullback into it is a continuation entry, not a reversal.
+
+## What he traded
+Four rows from today's stream, all in the [day notes](knowledge/streams/2026-09-21.md) (the ▲▼ markers on the chart are the three Nifty entries with a clock time):
+- **09:28 · 23250 CE** — follow-up entry above 173: **scratch** (frame: CE 172.50 at the entry, 171.90 at 09:53).
+- **11:20 · 23500 PE** — the day-low-sweep reversal: **loss, about −6** (frame: PE 127.4 at 11:33, through his 130.4 stop line, while Nifty rose). It read the sweep of the low correctly, but a put fought the staircase that had started at 09:15.
+- **13:08 · 23250 CE** — pullback into a fresh box: **+41** at the conservative 212 (frames show the CE at 218–223 by 14:03). Of his three Nifty calls it is the one that got continuation.
+- A 12:32 Telegram-only call on the same strike, self-reported and unlogged for points; and a BankNifty 56500 CE trade (+61, `said`) that is not on this chart.
+
+The scanner's two signals were both shorts; the trade that paid was a long.
+
+## Lesson of the day
+The day's low was set in the first minute and the market spent the rest of the session accepting higher prices. Every counter-trend read lost — the scanner's two shorts (−0.39R time exit, −1.00R stop) and his 11:20 put (~−6); the pullback call that agreed with the staircase paid. **Once the low is in early and each ceiling breaks and holds, the reversal setups are the wrong tool.**
 
 ## Carry forward to Tuesday
 - **23,394.5–23,397.65** — today's untaken equal lows, 18 points under the close. Closest liquidity.
